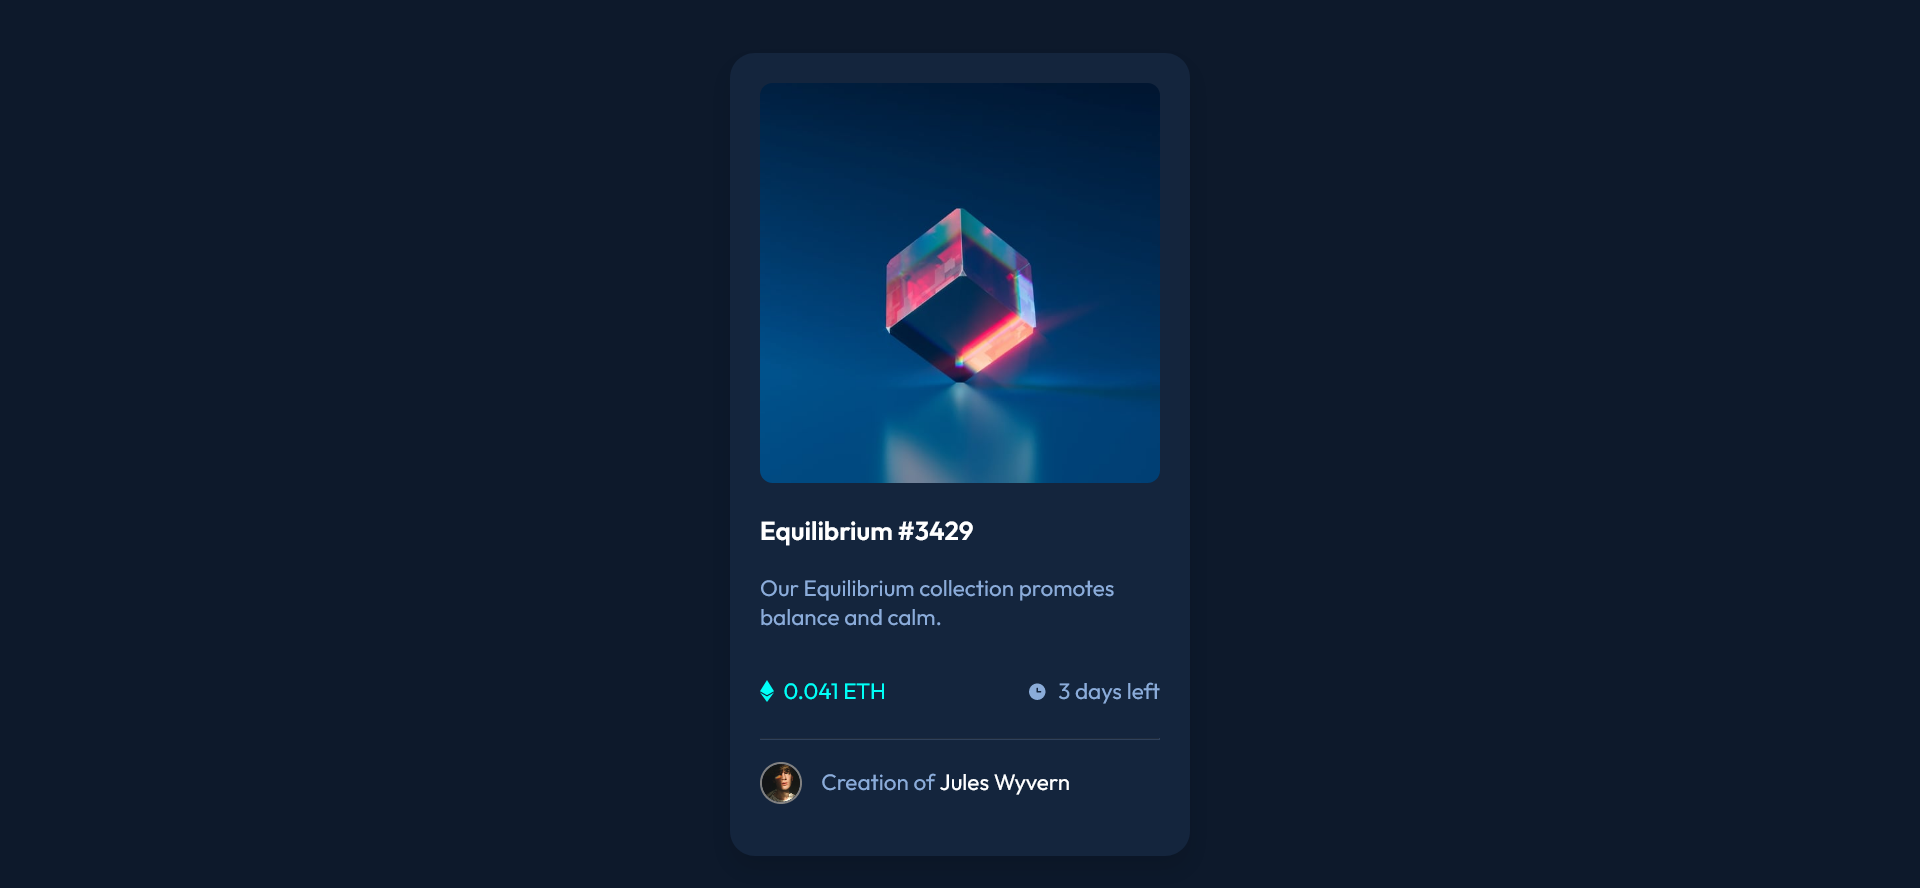
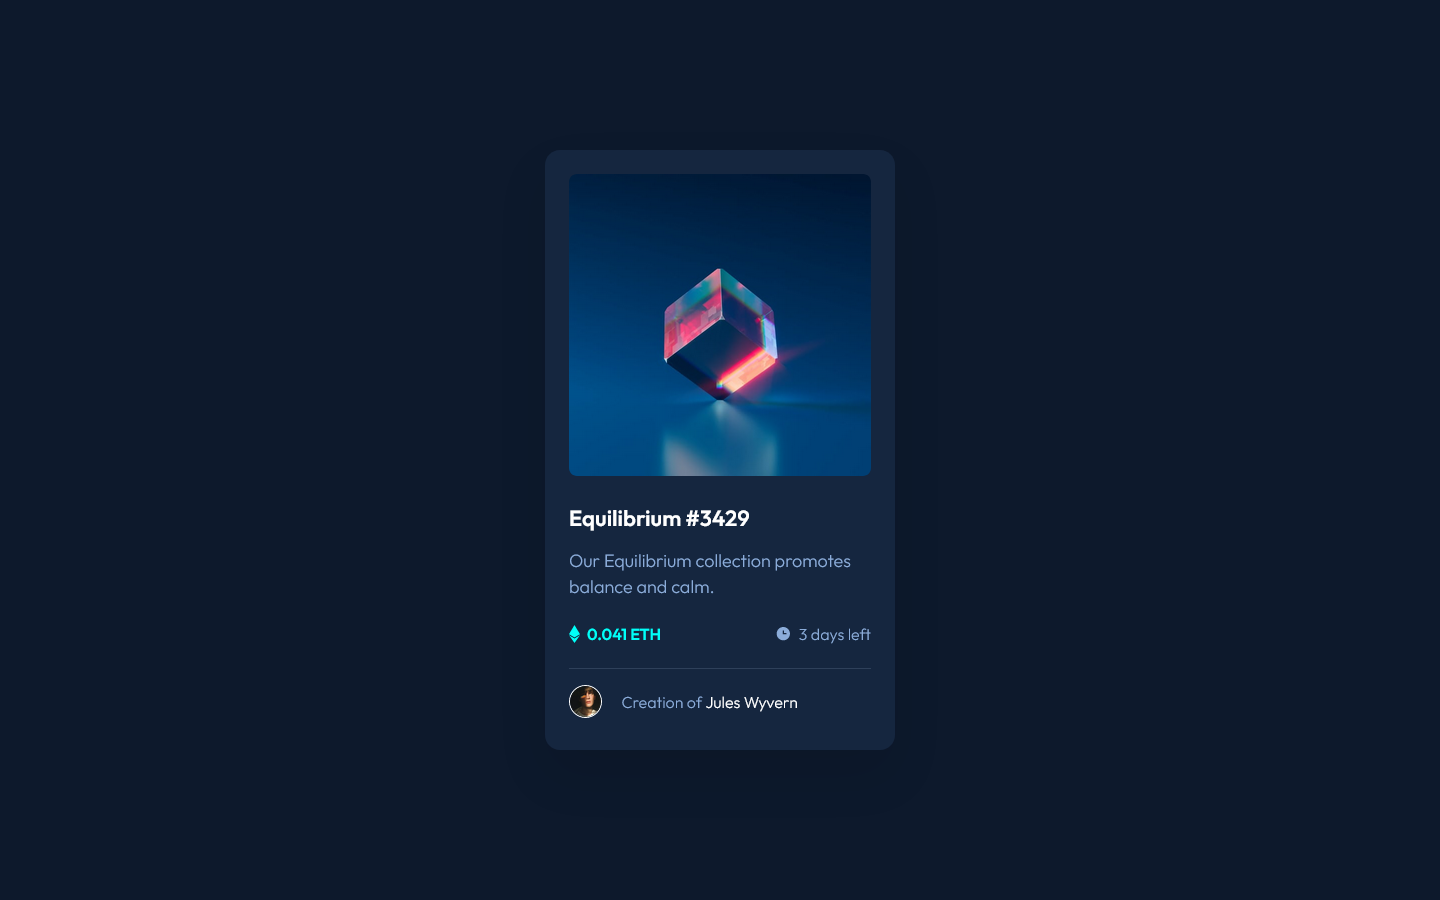
refactoring

diff --git a/frontend-mentor/nft-preview-card-component/index.html b/frontend-mentor/nft-preview-card-component/index.html
@@ -1,21 +1,21 @@
 <!DOCTYPE html>
 <html lang="en">
   <head>
-    <meta charset="UTF-8" />
-    <meta name="viewport" content="width=device-width, initial-scale=1.0" />
+    <meta charset="UTF-8"/>
+    <meta name="viewport" content="width=device-width, initial-scale=1.0"/>
     <link rel="icon" type="image/png" sizes="32x32" href="./images/favicon-32x32.png"/>
-    <link rel="stylesheet" href="styles/style.css"/>
+    <link rel="stylesheet" href="css/style.css"/>
     <title>Frontend Mentor | NFT preview card component</title>
   </head>
   <body>
     <main>
       <div class="card">
         <div class="card__img">
-          <img src="images/image-equilibrium.jpg" alt="Image of the Equilibrium NFT" class="card__img--nft"/>
+          <img src="images/image-equilibrium.jpg" alt="Equilibrium NFT" class="card__img--nft"/>
           <div class="card__img--overlay"><img src="images/icon-view.svg" alt="" aria-hidden="true"/></div>
         </div>
-        <h1 class="card--title"><a>Equilibrium #3429</a></h1>
-        <p class="card--blueText">
+        <h1><a>Equilibrium #3429</a></h1>
+        <p>
           Our Equilibrium collection promotes balance and calm.
         </p>
         <div class="card__infos">
@@ -23,14 +23,14 @@
             <img src="images/icon-ethereum.svg" alt="" class="card__infos--imgs" aria-hidden="true"/>
             0.041 ETH
           </p>
-          <p class="card__infos--timeleft">
+          <p class="card__infos--time">
             <img src="images/icon-clock.svg" alt="" class="card__infos--imgs" aria-hidden="true"/>
             3 days left
           </p>
         </div>
         <p class="card__credits--p">
-          <img src="images/image-avatar.png" alt="Avatar of the NFT creator" class="card__img--avatar"/>
-          Creation of <a class="card__credits--author">Jules Wyvern</a>
+          <img src="images/image-avatar.png" alt="Jules Wyvern" class="card__img--avatar"/>
+          Creation of <a>Jules Wyvern</a>
         </p>
       </div>
     </main>

diff --git a/frontend-mentor/nft-preview-card-component/scss/_page.scss b/frontend-mentor/nft-preview-card-component/scss/_page.scss
@@ -1,0 +1,112 @@
+body {
+  font-family: "Outfit", sans-serif;
+  background-color: $main-bg;
+  display: flex;
+  justify-content: center;
+  align-items: center;
+  min-height: 100vh;
+  overflow: hidden;
+}
+
+h1 {
+  font-weight: 600;
+  font-size: 22px;
+  line-height: 27.72px;
+  color: $white;
+  margin-bottom: 16px;
+}
+
+p {
+  font-weight: 300;
+  font-size: 18px;
+  line-height: 26px;
+  margin-bottom: 24px;
+  color: $soft-blue;
+}
+
+.card {
+  background-color: $card-bg;
+  max-width: 350px;
+  box-shadow: 0px 25px 50px rgba(0, 0, 0, 0.0952917);
+  border-radius: 15px;
+  padding: 24px;
+
+  a {
+    color: $white;
+
+    &:hover {
+      color: $cyan;
+      cursor: pointer;
+    }
+  }
+
+  &__img {
+    position: relative;
+    margin-bottom: 24px;
+
+    &--nft {
+      border-radius: 8px;
+      max-width: 302px;
+    }
+
+    &--overlay {
+      width: 302px;
+      height: 302px;
+      position: absolute;
+      top: 0;
+      left: 0;
+      background: hsl(178, 100%, 50%, 0.5);
+      border-radius: 8px;
+      transition: 0.5s ease;
+      opacity: 0;
+
+      & img {
+        position: absolute;
+        top: 50%;
+        left: 50%;
+        transform: translate(-50%, -50%);
+      }
+    }
+
+    &:hover &--overlay {
+      cursor: pointer;
+      opacity: 1;
+    }
+
+    &--avatar {
+      width: 33px;
+      height: 33px;
+      border: 1px solid $white;
+      border-radius: 50%;
+      vertical-align: -50%;
+      margin-right: 16px;
+    }
+  }
+
+  &__infos {
+    display: flex;
+    justify-content: space-between;
+
+    &--eth,
+    &--time {
+      font-size: 16px;
+      line-height: 20px;
+      display: flex;
+      align-items: center;
+      gap: 7px;
+    }
+
+    &--eth {
+      color: $cyan;
+      font-weight: 600;
+    }
+  }
+
+  &__credits--p {
+    font-size: 16px;
+    line-height: 20px;
+    border-top: 1px solid $line;
+    padding-top: 16px;
+    margin-bottom: 8px;
+  }
+}

diff --git a/frontend-mentor/nft-preview-card-component/css/style.css b/frontend-mentor/nft-preview-card-component/css/style.css
@@ -1,0 +1,1 @@
+@import"https://fonts.googleapis.com/css2?family=Outfit:wght@300;400;600&display=swap";*{margin:0;padding:0;box-sizing:border-box}body{font-family:"Outfit",sans-serif;background-color:#0d192c;display:flex;justify-content:center;align-items:center;min-height:100vh;overflow:hidden}h1{font-weight:600;font-size:22px;line-height:27.72px;color:#fff;margin-bottom:16px}p{font-weight:300;font-size:18px;line-height:26px;margin-bottom:24px;color:#8bacd9}.card{background-color:#15263f;max-width:350px;box-shadow:0px 25px 50px rgba(0,0,0,.0952917);border-radius:15px;padding:24px}.card a{color:#fff}.card a:hover{color:#00fff8;cursor:pointer}.card__img{position:relative;margin-bottom:24px}.card__img--nft{border-radius:8px;max-width:302px}.card__img--overlay{width:302px;height:302px;position:absolute;top:0;left:0;background:rgba(0,255,247,.5);border-radius:8px;transition:.5s ease;opacity:0}.card__img--overlay img{position:absolute;top:50%;left:50%;transform:translate(-50%, -50%)}.card__img:hover .card__img--overlay{cursor:pointer;opacity:1}.card__img--avatar{width:33px;height:33px;border:1px solid #fff;border-radius:50%;vertical-align:-50%;margin-right:16px}.card__infos{display:flex;justify-content:space-between}.card__infos--eth,.card__infos--time{font-size:16px;line-height:20px;display:flex;align-items:center;gap:7px}.card__infos--eth{color:#00fff8;font-weight:600}.card__credits--p{font-size:16px;line-height:20px;border-top:1px solid #2e405a;padding-top:16px;margin-bottom:8px}/*# sourceMappingURL=style.css.map */

diff --git a/frontend-mentor/qr-code-component/index.html b/frontend-mentor/qr-code-component/index.html
@@ -1,16 +1,16 @@
 <!DOCTYPE html>
 <html lang="en">
   <head>
-    <meta charset="UTF-8" />
-    <meta name="viewport" content="width=device-width, initial-scale=1.0" />
-    <link rel="icon" type="image/png" sizes="32x32" href="./images/favicon-32x32.png"/>
-    <link rel="stylesheet" href="styles/style.css" />
+    <meta charset="UTF-8"/>
+    <meta name="viewport" content="width=device-width, initial-scale=1.0"/>
+    <link rel="icon" type="image/png" sizes="32x32" href="./assets/favicon-32x32.png"/>
+    <link rel="stylesheet" href="css/style.css"/>
     <title>Frontend Mentor | QR code component</title>
   </head>
   <body>
     <main>
       <div class="card">
-        <img src="images/image-qr-code.png" alt="Image of the QR Code" class="card__img"/>
+        <img src="assets/image-qr-code.png" alt="Frontend Mentor QR Code" class="card__img"/>
         <h1>Improve your front-end skills by building projects</h1>
         <p>
           Scan the QR code to visit Frontend Mentor and take your coding skills

diff --git a/frontend-mentor/qr-code-component/scss/_page.scss b/frontend-mentor/qr-code-component/scss/_page.scss
@@ -1,0 +1,40 @@
+body {
+  font-family: "Outfit", sans-serif;
+  background-color: $light-gray;
+  display: flex;
+  justify-content: center;
+  align-items: center;
+  min-height: 100vh;
+  overflow: hidden;
+}
+
+.card {
+  background-color: $white;
+  max-width: 320px;
+  border-radius: 20px;
+  text-align: center;
+  box-shadow: 0px 25px 25px rgba(0, 0, 0, 0.0476518);
+  padding: 16px;
+
+  &__img {
+    border-radius: 10px;
+    width: 100%;
+    margin-bottom: 24px;
+  }
+
+  h1 {
+    font-weight: 700;
+    font-size: 22px;
+    line-height: 27.72px;
+    color: $dark-navy;
+  }
+
+  p {
+    font-weight: 400;
+    font-size: 15px;
+    line-height: 19px;
+    letter-spacing: 0.1875px;
+    color: $gray;
+    margin: 16px 16px 24px 16px;
+  }
+}

diff --git a/frontend-mentor/qr-code-component/css/style.css b/frontend-mentor/qr-code-component/css/style.css
@@ -1,0 +1,1 @@
+@import"https://fonts.googleapis.com/css2?family=Outfit:wght@400;700&display=swap";*{margin:0;padding:0;box-sizing:border-box}body{font-family:"Outfit",sans-serif;background-color:#d5e1ef;display:flex;justify-content:center;align-items:center;min-height:100vh;overflow:hidden}.card{background-color:#fff;max-width:320px;border-radius:20px;text-align:center;box-shadow:0px 25px 25px rgba(0,0,0,.0476518);padding:16px}.card__img{border-radius:10px;width:100%;margin-bottom:24px}.card h1{font-weight:700;font-size:22px;line-height:27,72px;color:#1f314f}.card p{font-weight:400;font-size:15px;line-height:19px;letter-spacing:.1875px;color:#7d889e;margin:16px 16px 24px 16px}/*# sourceMappingURL=style.css.map */

diff --git a/frontend-mentor/nft-preview-card-component/scss/main.scss b/frontend-mentor/nft-preview-card-component/scss/main.scss
@@ -1,0 +1,4 @@
+@import "https://fonts.googleapis.com/css2?family=Outfit:wght@300;400;600&display=swap";
+@import "./reset";
+@import "./variables";
+@import "./page";

diff --git a/frontend-mentor/qr-code-component/scss/main.scss b/frontend-mentor/qr-code-component/scss/main.scss
@@ -1,0 +1,4 @@
+@import "https://fonts.googleapis.com/css2?family=Outfit:wght@400;700&display=swap";
+@import "./reset";
+@import "./variables";
+@import "./page";

diff --git a/frontend-mentor/nft-preview-card-component/scss/_variables.scss b/frontend-mentor/nft-preview-card-component/scss/_variables.scss
@@ -1,0 +1,6 @@
+$white: #fff;
+$soft-blue: #8bacd9;
+$cyan: #00fff8;
+$main-bg: #0d192c;
+$card-bg: #15263f;
+$line: #2e405a;

diff --git a/frontend-mentor/qr-code-component/scss/_variables.scss b/frontend-mentor/qr-code-component/scss/_variables.scss
@@ -1,0 +1,4 @@
+$white: #fff;
+$gray: #7d889e;
+$light-gray: #d5e1ef;
+$dark-navy: #1f314f;

diff --git a/frontend-mentor/nft-preview-card-component/scss/_reset.scss b/frontend-mentor/nft-preview-card-component/scss/_reset.scss
@@ -1,0 +1,5 @@
+* {
+  margin: 0;
+  padding: 0;
+  box-sizing: border-box;
+}

diff --git a/frontend-mentor/qr-code-component/scss/_reset.scss b/frontend-mentor/qr-code-component/scss/_reset.scss
@@ -1,0 +1,5 @@
+* {
+  margin: 0;
+  padding: 0;
+  box-sizing: border-box;
+}
